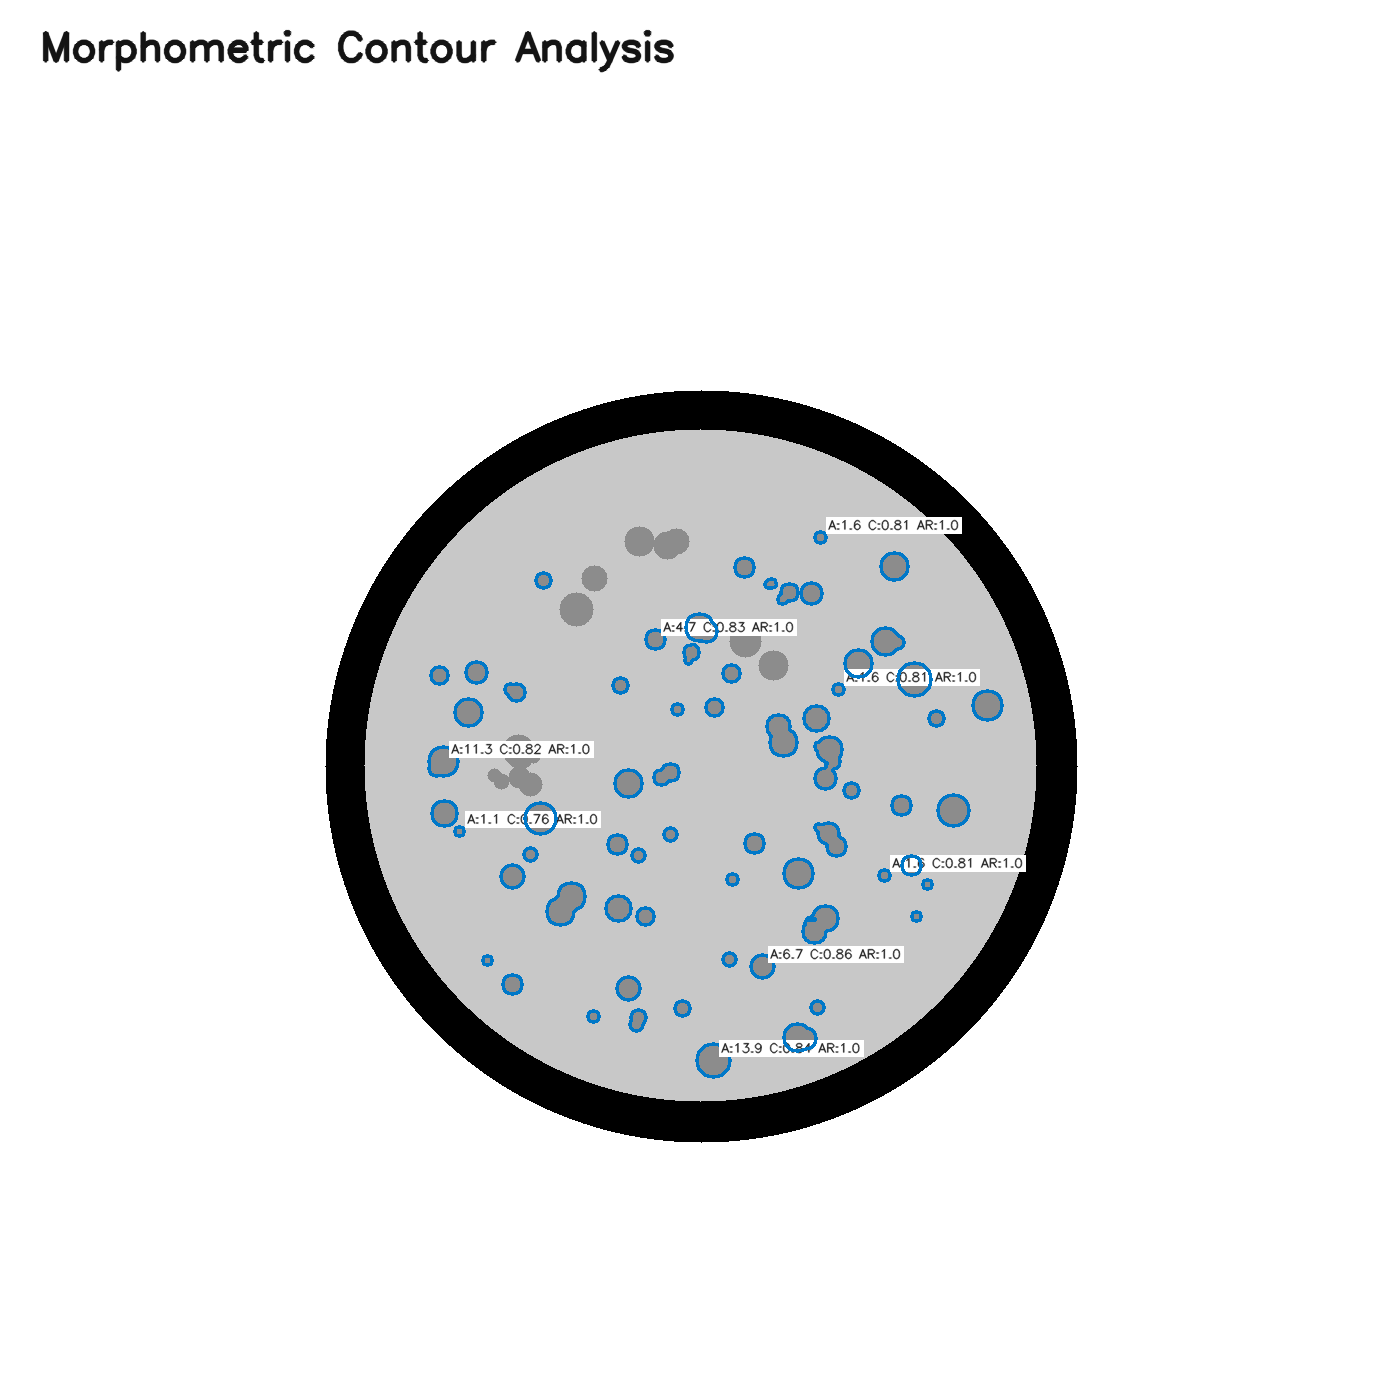
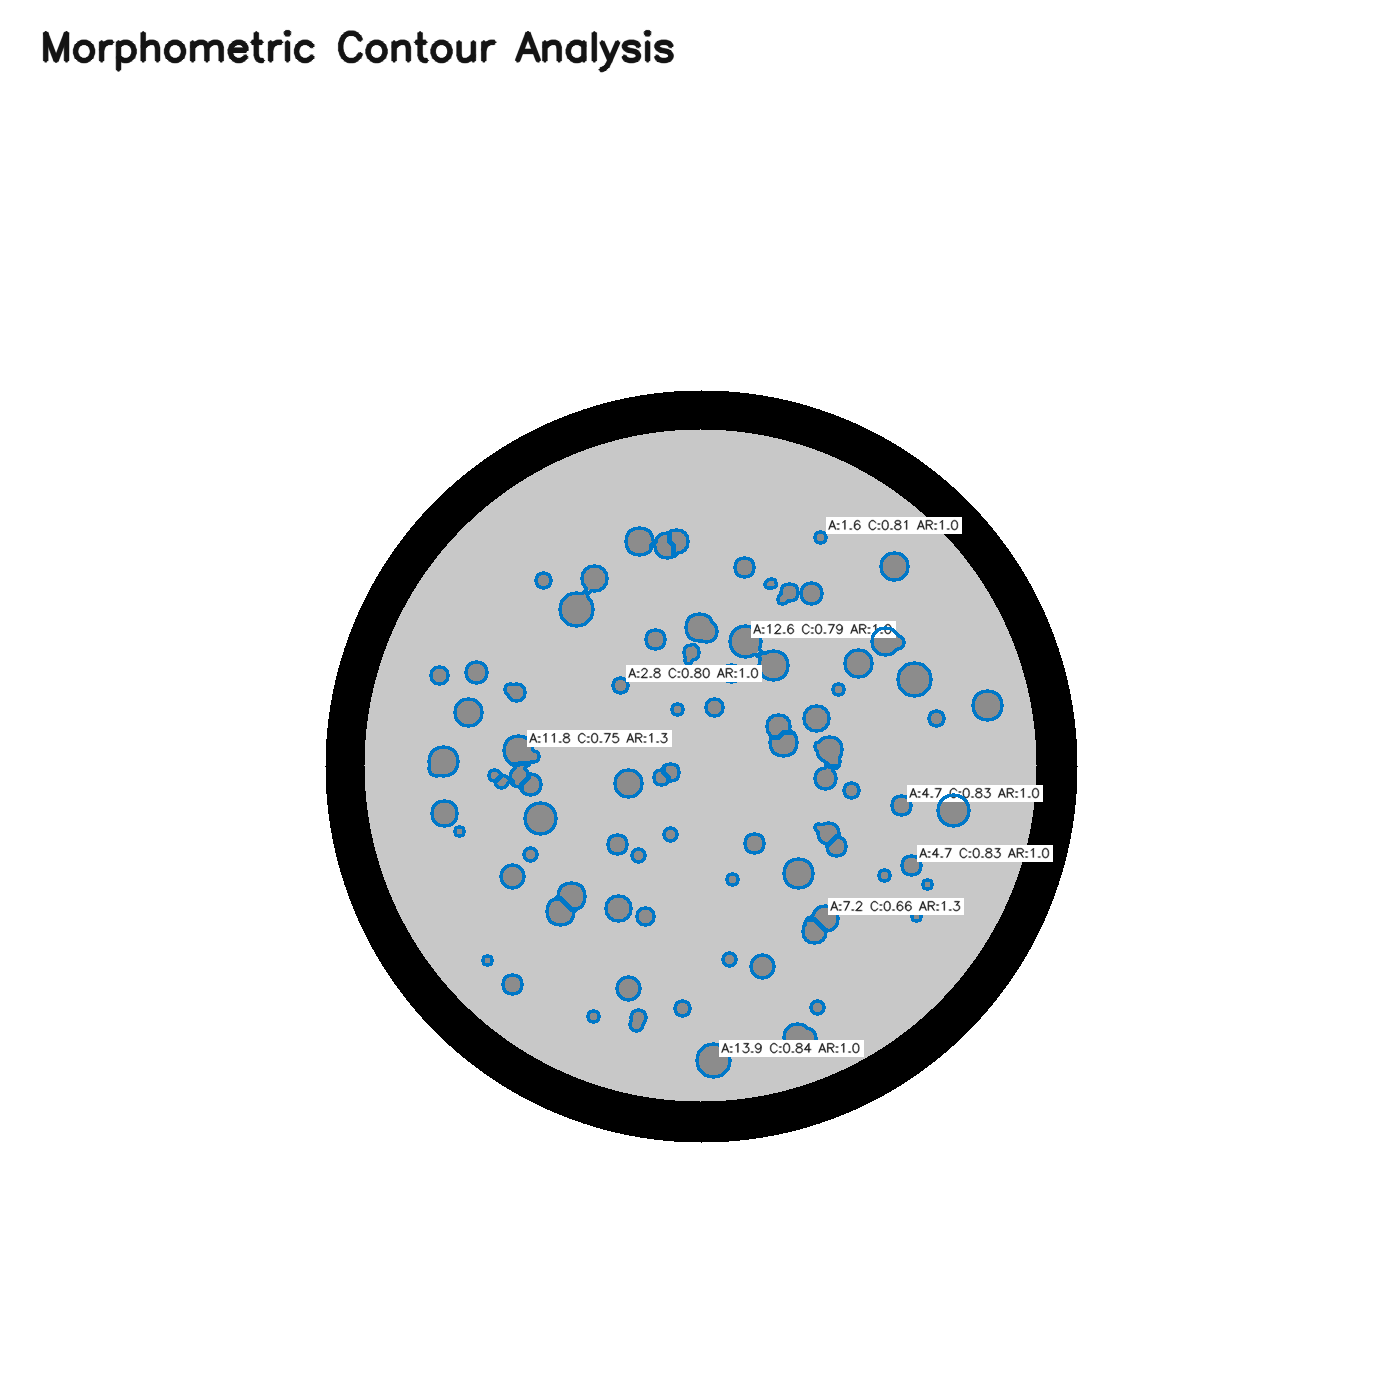
docs(blind-val): bug 3 results — F1 0.869 -> 0.918, precision 1.000 -> 0.995
Regenerated every artifact that depends on pipeline output: blind eval
results, benchmark comparison, stage-visualization figures, and a new
failure_analysis/iteration_3 frame set. Stale worst-case figure folder
(plate_039) removed — the lowest-F1 plate moved to plate_020 as that one
improved from F1 0.513 to 0.710.

What moved: overall F1 0.869 -> 0.918, clearing the 0.90 target for the
first time; dense_pack 0.840 -> 0.904 (now passes), high_touching 0.784 ->
0.877 (still fails), count error 15.75% -> 11.43%, anomaly F1 0.234 ->
0.405 as correctly-split touching colonies now get flagged. 4 of 5 sets
pass, up from 3.

What it cost: precision is no longer 1.000 anywhere — pooled 0.995, 41
false positives across 250 plates, 30 of them on irregular_morphology
where watershed over-splits concave star-shaped colonies and those pieces
are no longer merged back by the bug being fixed. The "never invents a
colony" claim is retired.

iteration_log.md marks the stopping-decision section superseded rather
than editing it, and records that the iteration-2 geometric-ceiling
analysis was correct in itself but was carrying a conclusion about the
whole gap that it could not support; the share it genuinely covers is
flagged as unquantified pending re-measurement.

diff --git a/testing/blind_eval/iteration_log.md b/testing/blind_eval/iteration_log.md
@@ -220,6 +220,12 @@ the same pipeline is exactly why this only surfaced in CI.
 
 ## Stopping decision — after iteration 2
 
+> **Superseded 2026-10-12.** The numbers and the central conclusion in this
+> section were both wrong, for a reason found after the memo went out — see
+> "Bug 3" at the bottom of this log. The section is left unedited as the
+> record of what was believed and published at the time. Current numbers
+> are in `results/blind_eval_results.md`.
+
 Stopped after 2 of the allowed 5 iteration cycles, below the F1 > 0.90
 target, by explicit decision rather than by exhausting the cycle count.
 Numbers below are post the CI-driven area-accuracy fix above (final,
@@ -259,3 +265,118 @@ iteration 2's own numbers.
   variance. It underperforms specifically on plates with dense,
   heavily-overlapping colonies — a known, named, measured limitation, not
   a hidden one.
+
+---
+
+## Bug 3 — watershed splits discarded at contour extraction (2026-10-12)
+
+Found after the memo was published, while tracing deep-saddle touching
+pairs stage by stage. This one invalidates part of the stopping decision
+above, so it gets its own entry rather than an edit to that section.
+
+### What it was
+
+`_apply_watershed()` ran `cv2.watershed()`, collapsed **every** region
+label into one binary mask (`watershed_mask[markers > 1] = 255`), then
+called `cv2.findContours()` once on that mask. `findContours` traces
+8-connected foreground, and `cv2.watershed` separates adjacent regions
+with a boundary line only 1px wide. Two regions that watershed had
+correctly split therefore stayed diagonally 8-connected around that line
+and were traced as a **single external contour** — silently discarding the
+split, at the last step, after the segmentation work had already succeeded.
+
+The irony worth recording: iterations 1 and 2 were spent making watershed
+produce more correct splits. It was producing them. They were being thrown
+away one line later.
+
+### How it was found
+
+Counting what `cv2.watershed()` actually produced (distinct labels > 1)
+against what the function returned (contours), per plate, 20 plates/set:
+
+| set | watershed regions | contours returned | lost |
+|---|---|---|---|
+| `high_touching` | 531 | 452 | **79 (14.9%)** |
+| `dense_pack` | 1664 | 1479 | **185 (11.1%)** |
+| `irregular_morphology` | 341 | 326 | 15 (4.4%) |
+| `size_variance` | 307 | 306 | 1 (0.3%) |
+| `poor_illumination` | 306 | 305 | 1 (0.3%) |
+
+The loss was concentrated almost entirely in the two sets this validation
+had been reporting as failing — which is exactly why it went unnoticed:
+the failure looked like the segmentation ceiling we had already "proven,"
+and matched the prediction well enough that nobody checked the next stage.
+
+### The fix
+
+Trace contours **per watershed label** (bounded by each region's own
+bounding box via `ndi.find_objects`, so cost stays proportional to colony
+area, not plate area) instead of from one collapsed mask. Exact by
+construction: two regions can only merge if they share a label, which they
+don't. Post-fix, contours returned == watershed regions produced, on every
+set — zero loss.
+
+### What moved
+
+Full 250-plate blind eval, before (committed state) vs after:
+
+| set | F1 before | F1 after | recall before | recall after | status |
+|---|---|---|---|---|---|
+| `dense_pack` | 0.840 | **0.904** | 0.725 | 0.827 | FAIL → **PASS** |
+| `high_touching` | 0.784 | **0.877** | 0.645 | 0.782 | FAIL (improved) |
+| `size_variance` | 0.919 | 0.920 | 0.851 | 0.852 | PASS |
+| `irregular_morphology` | 0.996 | 0.982 | 0.991 | 1.000 | PASS |
+| `poor_illumination` | 0.999 | 1.000 | 0.999 | 1.000 | PASS |
+| **Overall (pooled)** | **0.869** | **0.918** | 0.769 | 0.852 | **FAIL → PASS vs 0.90** |
+
+- Mean count error: 15.75% → **11.43%**
+- Anomaly detection, pooled F1: 0.234 → **0.405** (not tuned — touching
+  colonies that are now split correctly also get their `touching_colony`
+  flag correctly, which that layer was missing wholesale before)
+- 4 of 5 sets now pass, up from 3. **The overall F1 > 0.90 target is met
+  for the first time.**
+
+### What it cost
+
+**Precision is no longer 1.000.** Pooled precision 1.000 → **0.995**:
+**41 false positives** across 250 plates (7683 TP, 1339 FN).
+
+| set | false positives | plates affected |
+|---|---|---|
+| `irregular_morphology` | **30** | 22/50 |
+| `dense_pack` | 9 | 8/50 |
+| `high_touching` | 2 | 2/50 |
+| `poor_illumination` | 0 | 0/50 |
+| `size_variance` | 0 | 0/50 |
+
+`irregular_morphology` carries 73% of them, and the mechanism is
+understandable: that set's colonies are deliberately star-shaped, watershed
+over-splits a concave single colony into pieces, and those pieces are no
+longer merged back together by the very bug being fixed here. Its recall
+went to a perfect 1.000 in exchange — it now finds every colony and
+occasionally splits one in two.
+
+The "pipeline never invents a colony" claim, repeated throughout this log
+and in the published memo, **is no longer true** and must not be restated.
+
+### What this does to the "architectural ceiling" conclusion
+
+Iteration 2 concluded that the residual gap on dense/touching plates was a
+geometric ceiling of distance-transform watershed — that heavily
+overlapping colonies produce a single-peaked distance transform with no
+second peak to find. **That analysis is still correct as far as it goes,
+and it was measured directly, but it was load-bearing for a claim it could
+not support.** It explained why *some* pairs cannot be split; it was used
+to explain the *whole* remaining gap. A double-digit share of that gap was
+this extraction bug instead, and it is now recovered.
+
+What remains after this fix: `high_touching` is still below target at
+0.877 (recall 0.782). The single-peak limit plausibly explains that
+residual — but that is now a claim about a much smaller gap than the one
+it was originally offered for, and the precise share it covers has not been
+re-measured against the post-fix numbers. Treat it as unquantified until it is.
+
+### Out of scope here (follow-ups, not done)
+
+`max_area_mm2` (still the dominant cause of `size_variance` misses),
+saddle-depth gating, concave-point splitting, and anomaly-layer tuning.

diff --git a/testing/blind_eval/results/benchmark_comparison.md b/testing/blind_eval/results/benchmark_comparison.md
@@ -6,7 +6,7 @@ Each row reports the metric that source actually published, not a converted or e
 
 | System | Metric | Value | Conditions | Source |
 |---|---|---|---|---|
-| Our pipeline | Mean count error % (pooled) / F1 (per-colony precision-recall) | 15.75% mean count error / F1 0.869 (precision 1.000, recall 0.769) | 250 synthetic blind held-out plates, 5 stress conditions (dense colony packing, high touching-colony rate, extreme size variance, poor illumination, irregular morphology) not used during pipeline development. On the 3/5 conditions that pass this validation's own F1 > 0.90 target (irregular_morphology, poor_illumination, size_variance): 5.31% mean count error, pooled. | This validation — testing/blind_eval/run_blind_eval.py |
+| Our pipeline | Mean count error % (pooled) / F1 (per-colony precision-recall) | 11.43% mean count error / F1 0.918 (precision 0.995, recall 0.852) | 250 synthetic blind held-out plates, 5 stress conditions (dense colony packing, high touching-colony rate, extreme size variance, poor illumination, irregular morphology) not used during pipeline development. On the 4/5 conditions that pass this validation's own F1 > 0.90 target (dense_pack, irregular_morphology, poor_illumination, size_variance): 8.89% mean count error, pooled. | This validation — testing/blind_eval/run_blind_eval.py |
 | OpenCFU | Median absolute colony-count error vs. manual counts | 3 colonies (no statistically significant bias, p > 0.05) | 19 plates, 10-1000 S. aureus colonies/plate, HD images. Degrades to 8-colony median error on low-cost webcam images. | Geissmann Q (2013). "OpenCFU, a New Free and Open-Source Software to Count Cell Colonies and Other Circular Objects." PLOS ONE 8(2): e54072. doi:10.1371/journal.pone.0054072 |
 | OpenCFU (independent re-benchmark) | Mean count error % | 50.31% | 960-image labeled E. coli dataset (15,847 segments) — denser and harder than OpenCFU's own original validation set above; measured independently by a later paper, not OpenCFU's authors. | Chen, Huang, Kim, Cui, Buie (2025). "MCount: An automated colony counting tool for high-throughput microbiology." PLOS ONE 20(3): e0311242. |
 | ColonyDoc-It (fully automatic mode) | Mean count error % vs. manual counts | 59.7% (all bacteria, TSA, R² = 0.77); 18.3% (blood agar, R² = 0.94) | 640 plates, 6 organisms (S. aureus, E. coli, P. aeruginosa, K. pneumoniae, E. faecium, C. albicans), counts adjusted to ~1000/100/10/1 colonies/plate. Error rises sharply at the extremes (141.7-207.4% at ~1 colony/plate). | Heuser E, Becker K, Idelevich EA (2023). "Evaluation of an Automated System for the Counting of Microbial Colonies." Microbiology Spectrum 11(4): e00673-23. doi:10.1128/spectrum.00673-23 |

diff --git a/testing/blind_eval/results/blind_eval_results.md b/testing/blind_eval/results/blind_eval_results.md
@@ -8,18 +8,18 @@ Target: F1 > 0.90 on each held-out set.
 
 | set | n | precision | recall | F1 | mean per-plate F1 | count error % | anomaly precision | anomaly recall | anomaly F1 | pass |
 |---|---|---|---|---|---|---|---|---|---|---|
-| `dense_pack` | 50 | 1.000 | 0.725 | 0.840 | 0.840 | 27.37 | 0.336 | 0.202 | 0.253 | FAIL |
-| `high_touching` | 50 | 1.000 | 0.645 | 0.784 | 0.780 | 35.44 | 0.512 | 0.159 | 0.243 | FAIL |
-| `irregular_morphology` | 50 | 1.000 | 0.991 | 0.996 | 0.996 | 0.75 | 0.094 | 0.211 | 0.130 | PASS |
-| `poor_illumination` | 50 | 1.000 | 0.999 | 0.999 | 0.999 | 0.11 | 0.000 | 1.000 | 0.000 | PASS |
-| `size_variance` | 50 | 1.000 | 0.851 | 0.919 | 0.914 | 15.07 | 0.000 | 1.000 | 0.000 | PASS |
+| `dense_pack` | 50 | 0.998 | 0.827 | 0.904 | 0.904 | 17.06 | 0.393 | 0.435 | 0.413 | PASS |
+| `high_touching` | 50 | 0.998 | 0.782 | 0.877 | 0.875 | 21.60 | 0.527 | 0.447 | 0.484 | FAIL |
+| `irregular_morphology` | 50 | 0.965 | 1.000 | 0.982 | 0.983 | 3.59 | 0.079 | 0.263 | 0.121 | PASS |
+| `poor_illumination` | 50 | 1.000 | 1.000 | 1.000 | 1.000 | 0.00 | 0.000 | 1.000 | 0.000 | PASS |
+| `size_variance` | 50 | 1.000 | 0.852 | 0.920 | 0.915 | 14.93 | 0.000 | 1.000 | 0.000 | PASS |
 
 ## Overall (pooled across all held-out sets)
 
 - n plates: 250
-- Precision: 1.000
-- Recall: 0.769
-- **F1: 0.869** (FAIL vs target 0.90)
-- Mean per-plate F1: 0.906
-- Mean count error: 15.75%
-- Anomaly precision / recall / F1: 0.304 / 0.189 / 0.234
+- Precision: 0.995
+- Recall: 0.852
+- **F1: 0.918** (PASS vs target 0.90)
+- Mean per-plate F1: 0.935
+- Mean count error: 11.43%
+- Anomaly precision / recall / F1: 0.378 / 0.435 / 0.405

diff --git a/testing/blind_eval/results/methodology.md b/testing/blind_eval/results/methodology.md
@@ -61,8 +61,8 @@ Where a literature source reports **mean count error %** (the independent
 OpenCFU re-benchmark, ColonyDoc-It), that is roughly the same statistic as
 this validation's own `mean_count_error_pct` — both express relative
 deviation from a true/reference count — so those rows are the closest
-thing to an apples-to-apples read: our pipeline's pooled 15.75% (5.31% on
-the 3/5 conditions that pass this validation's F1 > 0.90 target) sits well
+thing to an apples-to-apples read: our pipeline's pooled 11.43% (8.89% on
+the 4/5 conditions that pass this validation's F1 > 0.90 target) sits well
 inside the range those two papers report for real automated counters
 (18.3-59.7% for ColonyDoc-It depending on medium, 50.31% for OpenCFU on a
 dense dataset). Where a source reports something else in kind (OpenCFU's

diff --git a/testing/blind_eval/failure_analysis/iteration_3/summary.md b/testing/blind_eval/failure_analysis/iteration_3/summary.md
@@ -1,0 +1,19 @@
+# Failure Analysis — Iteration 3
+
+Plates selected as the most false negatives (missed colonies) per failing held-out set.
+
+## high_touching
+
+| plate | expected | detected | false negatives | recall | count error % |
+|---|---|---|---|---|---|
+| `plate_020` | 40 | 22 | 18 | 0.550 | 45.00 |
+| `plate_027` | 38 | 23 | 15 | 0.605 | 39.47 |
+| `plate_007` | 35 | 23 | 12 | 0.657 | 34.29 |
+
+## dense_pack
+
+| plate | expected | detected | false negatives | recall | count error % |
+|---|---|---|---|---|---|
+| `plate_021` | 116 | 87 | 30 | 0.741 | 25.00 |
+| `plate_034` | 118 | 92 | 26 | 0.780 | 22.03 |
+| `plate_035` | 116 | 90 | 26 | 0.776 | 22.41 |

diff --git a/docs/figures/README.md b/docs/figures/README.md
@@ -8,4 +8,4 @@
 | Medium: Moderate Density, Light Touching | `high_touching/plate_011` | 29 | 5 | 5 |
 | Hard: Dense Colony Packing | `dense_pack/plate_040` | 100 | 26 | 26 |
 | High-Anomaly: Irregular Morphology | `irregular_morphology/plate_012` | 20 | 6 | 0 |
-| Worst Case: Lowest-F1 Held-Out Plate (F1=0.513) | `high_touching/plate_039` | 29 | 16 | 16 |
+| Worst Case: Lowest-F1 Held-Out Plate (F1=0.710) | `high_touching/plate_020` | 40 | 21 | 21 |
